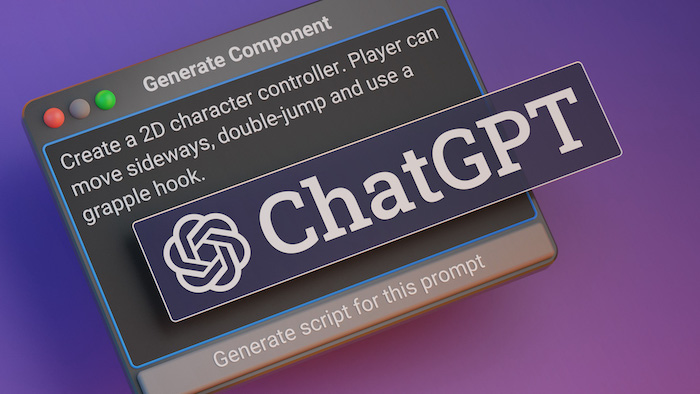
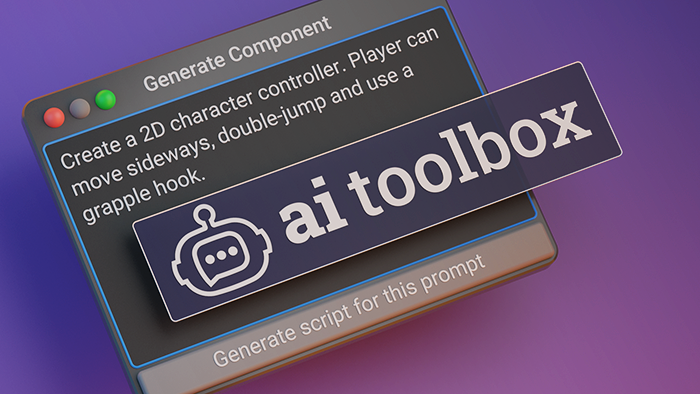
Rename pre-update

diff --git a/_docs/40.getting-started.md b/_docs/40.getting-started.md
@@ -1,13 +1,13 @@
 ---
 title: "Getting Started"
 permalink: /getting-started/
-excerpt: "Getting Started with AI Script Generator"
+excerpt: "Getting Started with AI Toolbox"
 ---
 
-Once you [set up](/installation/) the AI Script Generator, you can start using it to generate C# scripts for your Unity projects.
+Once you [set up](/installation/) the {{ site.title_short }}, you can start using it to generate C# scripts for your Unity projects.
 
-## Using the AI Script Generator
-After setting up the API key, you can now use the AI Script Generator in the Unity Editor:
+## Using the {{ site.title_short }}
+After setting up the API key, you can now use the {{ site.title_short }} in the Unity Editor:
 1. In the Unity Editor, select a GameObject and click the **“Generate Component”** button in
 the Inspector.
 1. **Type a ChatGPT prompt** describing the C# script you would like to add.
@@ -27,9 +27,7 @@ Alternatively, there is another option to open the prompt box for generating a s
 1. Please be aware that ChatGPT, being an AI model, **may sometimes generate scripts that cannot be compiled** and will show errors in the Unity Console. While we strive to improve the accuracy and functionality of the generated scripts, we have no direct control over the AI's output.
 1. Unfortunatelly, we can't control how the AI will generate the scripts. Sometimes it may generate scripts that are not working or not what you are looking for. To get a better outcome from the AI generated scripts, please have a look at this page for more details: [How To Write Prompts](https://chatgpt.dustyroom.com/how-to-write-prompts/)
 
-## AI Script Generator Prompt Window
-
-### Generating a Script with ChatGPT Prompt Window
+## Generating a Script with ChatGPT Prompt Window
 Type your request in the prompt window and click **"Generate and Add"** to start the script generation process. You can also use `Ctrl + Ender` (Windows) or `Cmd + Ender` (Mac). The generated script will be added to your project (by default, in `Assets/Scripts`, but you can choose the destination in the _Output Path_ field in the [General Settings](/getting-started/#general-settings)).
 
 ![The prompt window](/assets/images/manual_images/sg-prompt-window-1_1.png){: .image-simple }
@@ -37,7 +35,7 @@ Type your request in the prompt window and click **"Generate and Add"** to start
 {:.image-caption}
 The prompt window
 
-- **Advanced Options** — if expanded, reveals the [**Temperature**](/getting-started/#temperature), [**Timeout**](/getting-started/#timeout), [**History**](/getting-started/#prompt-history) parameters, [How To Write Prompts](/how-to-write-prompts/) button , mirrored from the [_Settings panel_](/getting-started/#ai-script-generator-settings) (which can be found in _Edit_ ▶ _Project Settings_ ▶ _AI Script Generator_).
+- **Advanced Options** — if expanded, reveals the [**Temperature**](/getting-started/#temperature), [**Timeout**](/getting-started/#timeout), [**History**](/getting-started/#prompt-history) parameters, [How To Write Prompts](/how-to-write-prompts/) button , mirrored from the [_Settings panel_](/getting-started/#ai-script-generator-settings) (which can be found in _Edit_ ▶ _Project Settings_ ▶ _{{ site.title_short }}_).
 
 - **Save to History** — Enable this option to save the generated script to the history. [_History_](/getting-started/#prompt-history) can be accessed with the "_History_" button in this window or in the [_Settings panel_](/getting-started/#ai-script-generator-settings).
 
@@ -46,19 +44,57 @@ The prompt window
 {:.image-caption}
 The prompt window with advanced options expanded
 
-### Editing the Script with ChatGPT Prompt Window
-If you would like to change your generated script, can select this scipt in the **Project** tab ▶ right-click on it ▶ select **Edit C# Script with ChatGPT**. This will open the prompt window.
+## Editing the Script with ChatGPT Prompt Window
+If you would like to change your generated script, click the "three dots button" on the script on the Inspector panel and select **Edit Script with ChatGPT**. This will open the prompt window.
 
-<a href="/assets/images/manual_images/sg-edit-script-with-chatgpt.png">
-![Edit the generated script](/assets/images/manual_images/sg-edit-script-with-chatgpt.png){: .image-simple }
+<a href="/assets/images/manual_images/sg-edit-script-with-chatgpt-2.png">
+![Edit the generated script method 1](/assets/images/manual_images/sg-edit-script-with-chatgpt-2.png){: .image-simple }
 </a>
 
 {:.image-caption}
-Edit the generated script
+Edit the generated script (method 1, from the Inspector panel)
 
-## AI Script Generator Settings
+Alternatively, you can select this scipt in the **Project** tab ▶ right-click on it ▶ select **Edit C# Script with ChatGPT**. This will open the prompt window.
 
-The settings can be found in Edit ▶ Project Settings ▶ AI Script Generator.
+<a href="/assets/images/manual_images/sg-edit-script-with-chatgpt.png">
+![Edit the generated script method 2](/assets/images/manual_images/sg-edit-script-with-chatgpt.png){: .image-simple }
+</a>
+
+{:.image-caption}
+Edit the generated script (method 2, from the Project tab)
+
+Once the prompt window is open, you can edit the script and click **Generate** to start the generation process. You can also use `Ctrl + Ender` (Windows) or `Cmd + Ender` (Mac).
+
+- **Left/Right Arrow Buttons** — view the previous and Next prompts from History.
+
+- **Advanced Options** — if expanded, reveals the [**Temperature**](/getting-started/#temperature), [**Timeout**](/getting-started/#timeout), [**History**](/getting-started/#prompt-history) parameters, [How To Write Prompts](/how-to-write-prompts/) button , mirrored from the [_Settings panel_](/getting-started/#ai-script-generator-settings) (which can be found in _Edit_ ▶ _Project Settings_ ▶ _{{ site.title_short }}_).
+
+- **Save to History** — Enable this option to save the generated script to the history. [_History_](/getting-started/#prompt-history) can be accessed with the "_History_" button in this window or in the [_Settings panel_](/getting-started/#ai-script-generator-settings).
+
+![The Edit Script prompt window](/assets/images/manual_images/sg-prompt-window-editing.png){: .image-simple }
+
+{:.image-caption}
+The Edit Script prompt window
+
+### If Editing the Script Results in Errors
+
+{{ site.title_short }} sees if the code that is being generated will have errors and eventually will fail to compile. {{ site.title_short }} will give a few options to address that. If you have any errors when the script is generated, the look of the script generation window will change to the following:
+
+<a href="/assets/images/manual_images/sg-edit-script-with-chatgpt-errors.png">
+![Generation window with errors](/assets/images/manual_images/sg-edit-script-with-chatgpt-errors.png){: .image-simple }
+</a>
+
+{:.image-caption}
+Generation window with errors
+
+- **Ask ChatGPT to Fix It** - This will ask the AI to fix the errors.
+- **Revert and Edit Prompt** - This will discard the changes made by editing the script.
+- **Accept and Edit File** - This will accept the changes and will open the script file to be edited manually.
+- **Accept** - This will accept the changes.
+
+## {{ site.title_short }} Settings
+
+The settings can be found in Edit ▶ Project Settings ▶ {{ site.title_short }}.
 
 ### OpenAI API Key
 
@@ -159,8 +195,8 @@ History settings window
 - **OpenAI Status Page** opens the [OpenAI Status Page](https://status.openai.com/){:target="_blank"} in your browser.
 - **ChatGPT Playground** opens the [ChatGPT Playground](https://playground.openai.com/){:target="_blank"} in your browser.
 - **How to write prompts** opens the [How to write prompts](/how-to-write-prompts/){:target="_blank"} page of this documentation in your browser.
-- **Discord** opens AI Script Generator support [Discord](https://discord.gg/xqfh46kKfw){:target="_blank"} channel in your browser.
-- **Asset Store Page** opens the [AI Script Generator](https://u3d.as/334o?aid=1101lHzQ){:target="_blank"} page in your browser.
+- **Discord** opens {{ site.title_short }} support [Discord](https://discord.gg/xqfh46kKfw){:target="_blank"} channel in your browser.
+- **Asset Store Page** opens the [{{ site.title_short }}](https://u3d.as/334o?aid=1101lHzQ){:target="_blank"} Asset Store page in your browser.
 
 <a href="/assets/images/manual_images/sg-project-settings-useful-links.png">
 ![Useful Links](/assets/images/manual_images/sg-project-settings-useful-links.png)

diff --git a/_docs/130.troubleshooting.md b/_docs/130.troubleshooting.md
@@ -6,7 +6,7 @@ toc: false
 ---
 
 #### I am getting a **Timeout** issue
-> - Unfortunately we can't control how long it takes for the ChatGPT to complete the response, but we've added a [Timeout setting](/getting-started/#timeout), increasing it may help you solve this issue. It can be configured in the project settings (Edit ▶ Project Settings ▶ AI Script Generator). Sometimes this happens, due to some kind of outage on the server side. If you are getting a Timeout error, please try generating the script again later.
+> - Unfortunately we can't control how long it takes for the ChatGPT to complete the response, but we've added a [Timeout setting](/getting-started/#timeout), increasing it may help you solve this issue. It can be configured in the project settings (Edit ▶ Project Settings ▶ {{ site.title_short }}). Sometimes this happens, due to some kind of outage on the server side. If you are getting a Timeout error, please try generating the script again later.
 > - If you are located in China, it may relate to the issue. Below is an excerpt from the [Yahoo! Finance](https://finance.yahoo.com/news/chinas-ban-openais-chatgpt-likely-135040587.html){:target="_blank"} article:  
 `China ordered local apps and websites to terminate services that allow OpenAI’s ChatGPT service, cooling down the rally in Chinese artificial intelligence stocks.`
 
@@ -14,12 +14,15 @@ toc: false
 > You can ask anything you like, but keep it clean and appropriate. The more specific you are the better the results will be. ChatGPT will output better results for the simpler but specific prompt. Please remember that specific doesn't mean short. It will work the best if you describe your request with at least several sentences covering all nuances of your request. It is advised that you use less pronouns like 'it' or 'they' and more nouns like 'the given model' or 'the character'. Please have a look at this page for more details: [How To Write Prompts](/how-to-write-prompts/).
 
 #### My generated script is not working (has errors, can't compile)
-> Most likely, you didn't phrase your request in a way ChatGPT artificial intelligence could understand. Try to be more specific and detailed. If you are not sure how to phrase your request, please look at the [How To Write Prompts](/how-to-write-prompts) page. Please be aware that ChatGPT, being an AI model, **may sometimes generate scripts that cannot be compiled** and will show errors in the Unity Console. While we strive to improve the accuracy and functionality of the generated scripts, we have no direct control over the AI's output.
+> Most likely, you didn't phrase your request in a way ChatGPT artificial intelligence could understand. Try to be more specific and detailed. If you are not sure how to phrase your request, please look at the [How To Write Prompts](/how-to-write-prompts) page. Please be aware that ChatGPT, being an AI model, **may sometimes generate scripts that cannot be compiled** and will show errors in the Unity Console. While we strive to improve the accuracy and functionality of the generated scripts, we have no direct control over the AI's output. A few things to try:
+> - When the script generation is complete ant there are any errors, you should see the button **Ask ChatGPT to Fix It** in the bottom of the script generation box. [Read more](/getting-started/#editing-the-script-with-chatgpt-prompt-window)
+> - Alternatively, press **Revert and Edit Prompt** in the same script generation box and try to rephrase your request. [Read more](/getting-started/#editing-the-script-with-chatgpt-prompt-window)
+> - Try generating the code in the web version of ChatGPT in your browser. If the script is generated correctly there, it means that the issue is related to the Unity integration of {{ site.title_short }}. Please [get in touch](/contact-details/) and include the detailed description of the issue.
 
-#### After importing, AI Script Generator gives errors
+#### After importing, {{ site.title_short }} gives errors
 > There may be several reasons for this. Please try the following:
 > - First, try **restarting Unity**. A simple restart indeed sometimes fixes some strange issues.
-> - **Re-import AI Script Generator**.
+> - **Re-import {{ site.title_short }}**.
 > - Verify if the Unity version meets the [requirements](https://u3d.as/334o?aid=1101lHzQ){:target="_blank"}.
 > - Make sure that you are not using a Unity **beta** release.
 > - If nothing helps, please [get it touch](/contact-details/) and include the detailed description of the issue.

diff --git a/_docs/20.installation.md b/_docs/20.installation.md
@@ -1,7 +1,7 @@
 ---
 title: "Getting Started"
 permalink: /installation/
-excerpt: "How to quickly install and setup AI Script Generator"
+excerpt: "How to quickly install and setup AI Toolbox"
 ---
 
 ## Quick Setup Guide
@@ -14,7 +14,7 @@ excerpt: "How to quickly install and setup AI Script Generator"
 First of all, you need to download and import AI Script Generator into your project.
 
   * In Unity, go to **Window** ▶ **Package Manager**;
-  * On the top left, please locate the **Packages** drop down menu. Select **My Assets** item there. You’ll find **AI Script Generator** among your assets. Choose the version you’d like to import;
+  * On the top left, please locate the **Packages** drop down menu. Select **My Assets** item there. You’ll find **{{ site.title }}** among your assets. Choose the version you’d like to import;
   * Click **Download** (if it is not downloaded yet);
   * Click **Import**.
 
@@ -23,7 +23,7 @@ First of all, you need to download and import AI Script Generator into your proj
 ![](../assets/images/manual_images/sg-package-manager-import.png)
 
 ### API Key Generation
-To use the AI Script Generator, you must first generate an API key for the ChatGPT API:
+To use the {{ site.title_short }}, you must first generate an API key for the ChatGPT API:
 1. **Sign up or log in** to your OpenAI account: [https://platform.openai.com/](https://platform.openai.com/){:target="_blank"}.
 1. Navigate to the **"View API Keys"** section in your account dashboard.
 1. Click **"Create new secret key"** and copy the generated key.
@@ -39,7 +39,7 @@ Generate an API key for the ChatGPT API on the OpenAI website
 Once you have generated the API key, you need to set it up within Unity:
 1. Open your Unity project.
 1. Click on **"Edit"** in the top menu, then select **"Project Settings**."
-1. In the Project Settings window, navigate to the **"ChatGPT Code Generator"** tab.
+1. In the Project Settings window, navigate to the **"{{ site.title_short }}"** tab.
 1. Paste your API key into the **"API Key"** field.
 
 <a href="/assets/images/manual_images/sg-project-settings-apikey.png">
@@ -61,14 +61,14 @@ The Welcome scene is a good place to check if your API key is valid, also to see
 </a>
 
 {:.image-caption}
-**[Demo] AI Script Generator** scene shows that the API key is missing
+**[Demo] {{ site.title_short }}** scene shows that the API key is missing
 
 <a href="/assets/images/manual_images/sg-setup-apikey-ok.png">
 ![Welcome Scene](../assets/images/manual_images/sg-setup-apikey-ok.png)
 </a>
 
 {:.image-caption}
-**[Demo] AI Script Generator** scene shows that after entering the API in the Project Settings, you are ready to go
+**[Demo] {{ site.title_short }}** scene shows that after entering the API in the Project Settings, you are ready to go
 
 <!--
 The Quick Start scene scene works in all Render Pipelines: Built-in, URP and HDRP.

diff --git a/_docs/120.faqs.md b/_docs/120.faqs.md
@@ -9,10 +9,10 @@ toc: false
 > Please have a look at the [Troubleshooting](/troubleshooting/) page of this documentation. If you can't find a solution to your problem there, please [get in touch](/contact-details/).
 
 #### What can I ask in my prompt?
-> You can ask AI Script Generator to build a C# script for you. In some cases, depending on your request, the resulting scripts will be complemented with calling the additional Unity's components, e.g. when asking to make buttons for a menu, most likely ChatGPT will add the Canvas Component as well. To get a better outcome from the AI generated scripts, please have a look at this page for more details: [How To Write Prompts](/how-to-write-prompts/).
+> You can ask {{ site.title_short }} to build a C# script for you. In some cases, depending on your request, the resulting scripts will be complemented with calling the additional Unity's components, e.g. when asking to make buttons for a menu, most likely ChatGPT will add the Canvas Component as well. To get a better outcome from the AI generated scripts, please have a look at this page for more details: [How To Write Prompts](/how-to-write-prompts/).
 
-#### What kind of scripts does AI Script Generator generate?
-> AI Script Generator can generate runtime components (`MonoBehaviours`) so far. Stay tuned for the updates.
+#### What kind of scripts does {{ site.title_short }} generate?
+> {{ site.title_short }} can generate runtime components (`MonoBehaviours`) so far. Stay tuned for the updates.
 
 #### We are gathering the most asked questions now.
 > Please [get it touch](/contact-details/) if you have a question.

diff --git a/_docs/30.examples.md b/_docs/30.examples.md
@@ -1,17 +1,17 @@
 ---
-title: "Examples of using AI Script Generator"
+title: "Examples of using AI Toolbox"
 permalink: /examples/
-excerpt: "Example prompts for AI Script Generator"
+excerpt: "Example prompts for AI Toolbox"
 ---
 
 ## Overview
 
-This page contains a few examples of the use cases for AI Script Generator. These are not the only use cases but rather just hints to what you can prompt and how you can phrase your prompts.
+This page contains a few examples of the use cases for {{ site.title_short }}. These are not the only use cases but rather just hints to what you can prompt and how you can phrase your prompts.
 
 ## Example C# Scripts
 
 ### Example Script 1
-This is a basic script, which was generated from a not very descriptive prompt. The script is not very complex, but it is a good starting point for a more complex script. In this case AI Script Generator also added a Unity's Component (_Nav Mesh Agent_) in addition to the _Waypoint Patrol_ script.
+This is a basic script, which was generated from a not very descriptive prompt. The script is not very complex, but it is a good starting point for a more complex script. In this case {{ site.title_short }} also added a Unity's Component (_Nav Mesh Agent_) in addition to the _Waypoint Patrol_ script.
 
 #### Prompt
 

diff --git a/_docs/110.contact.md b/_docs/110.contact.md
@@ -10,9 +10,9 @@ Have questions? Here's how to get support:
 1. Look at the [Troubleshooting](/troubleshooting/) page, where the typical issues and their solutions are described;
 1. Read the [Frequently Asked Questions](/faqs/), chances are you’ll find the answers here;
 1. Go to our [Discord](https://discord.gg/xqfh46kKfw){:target="_blank"};
-1. If you still need help, please, shoot a letter to _{{ site.email }}_. We always do our best to respond as quickly as possible.
+1. If you still need help, please shoot a letter to _{{ site.email }}_. We always do our best to respond as quickly as possible.
 
-> Please, include as many details as possible such as Unity and AI Script Generator versions, screenshots / recordings etc. Any suggestions and feature requests are welcome, too!
+> Please, include as many details as possible such as Unity and {{ site.title_short }} versions, screenshots / recordings etc. Any suggestions and feature requests are welcome, too!
 
 Email: [{{ site.email }}](mailto:{{ site.email }})
 

diff --git a/_docs/10.overview.md b/_docs/10.overview.md
@@ -1,5 +1,5 @@
 ---
-title: "AI Toolbox: GPT Helper"
+title: "AI Toolbox: GPT Integration"
 permalink: /
 excerpt: "A quick overview of the asset"
 toc: true
